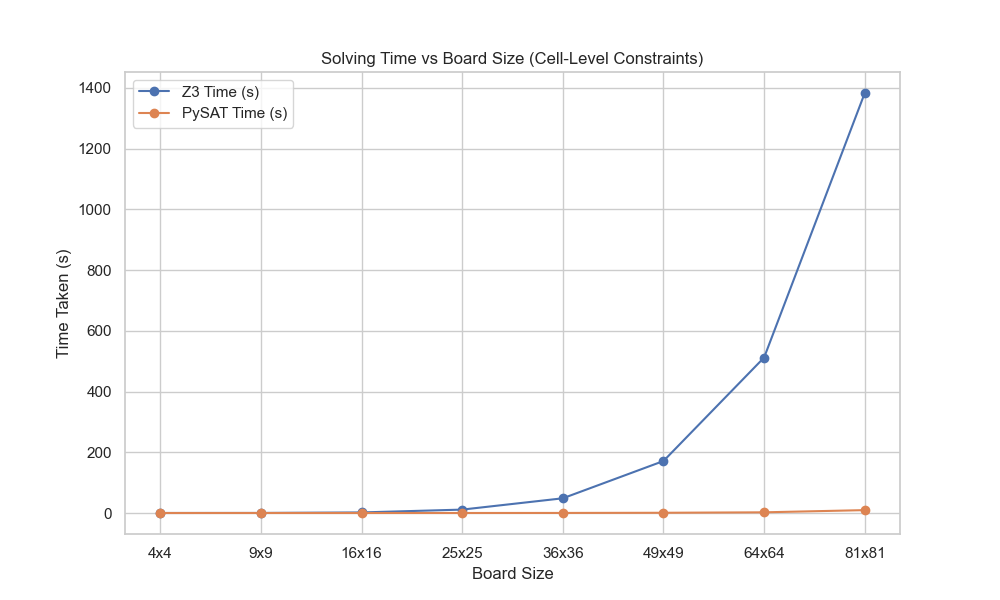
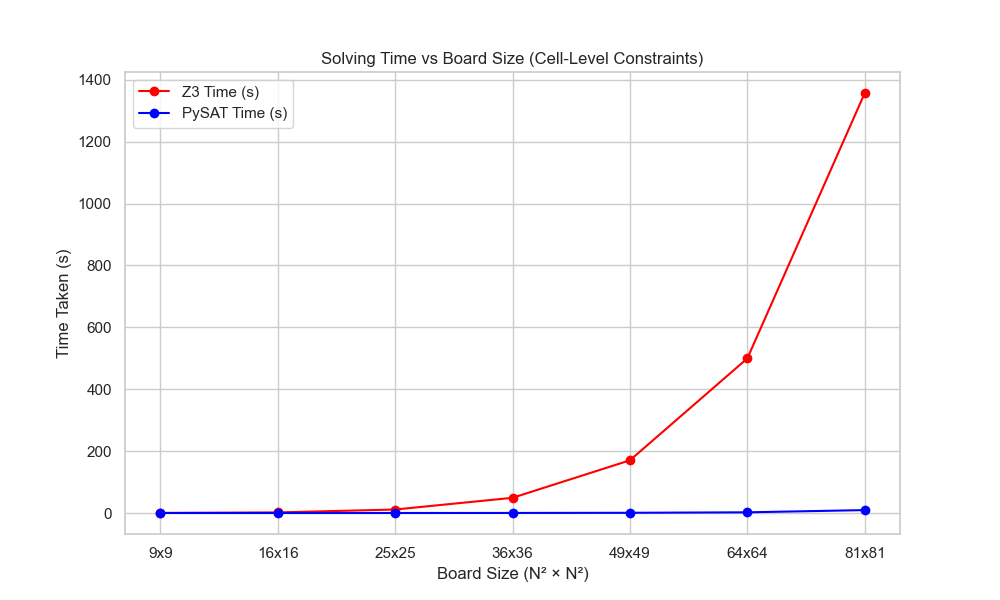
Update benchmark code to the github

diff --git a/SAT_IO/benchmark.py b/SAT_IO/benchmark.py
@@ -50,8 +50,8 @@ def benchmark(solver_func, cnf):
     return round(memory_used, 2), round(end_time - start_time, 3)
 
 if __name__ == "__main__":
-    # Block sizes (board size = block^2 x block^2)
-    block_sizes = [2, 3, 4, 5, 6, 7, 8, 9]  # Includes 81x81 board at block=9
+    # Block sizes (board size = block^2 x block^2) — 4x4 REMOVED
+    block_sizes = [3, 4, 5, 6, 7, 8, 9]  # Starts from 9x9 board (block=3)
 
     z3_memory, z3_time = [], []
     pysat_memory, pysat_time = [], []
@@ -74,17 +74,16 @@ if __name__ == "__main__":
 
         print(f"{n}x{n} | Z3: {mem_z3} MB, {time_z3}s | PySAT: {mem_ps} MB, {time_ps}s")
 
-  
     sns.set(style="whitegrid")
 
     # Save memory plot
     plt.figure(figsize=(10, 6))
     board_labels = [f"{b*b}x{b*b}" for b in block_sizes]
-    plt.plot(block_sizes, z3_memory, marker='o', label='Z3 Memory (MB)')
-    plt.plot(block_sizes, pysat_memory, marker='o', label='PySAT Memory (MB)')
+    plt.plot(block_sizes, z3_memory, marker='o', color='red', label='Z3 Memory (MB)')
+    plt.plot(block_sizes, pysat_memory, marker='o', color='blue', label='PySAT Memory (MB)')
     plt.xticks(block_sizes, board_labels)
     plt.title('Memory Usage vs Board Size (Cell-Level Constraints)')
-    plt.xlabel('Board Size')
+    plt.xlabel('Board Size (N² × N²)')
     plt.ylabel('Memory Used (MB)')
     plt.legend()
     plt.grid(True)
@@ -93,11 +92,11 @@ if __name__ == "__main__":
 
     # Save time plot
     plt.figure(figsize=(10, 6))
-    plt.plot(block_sizes, z3_time, marker='o', label='Z3 Time (s)')
-    plt.plot(block_sizes, pysat_time, marker='o', label='PySAT Time (s)')
+    plt.plot(block_sizes, z3_time, marker='o', color='red', label='Z3 Time (s)')
+    plt.plot(block_sizes, pysat_time, marker='o', color='blue', label='PySAT Time (s)')
     plt.xticks(block_sizes, board_labels)
     plt.title('Solving Time vs Board Size (Cell-Level Constraints)')
-    plt.xlabel('Board Size')
+    plt.xlabel('Board Size (N² × N²)')
     plt.ylabel('Time Taken (s)')
     plt.legend()
     plt.grid(True)
